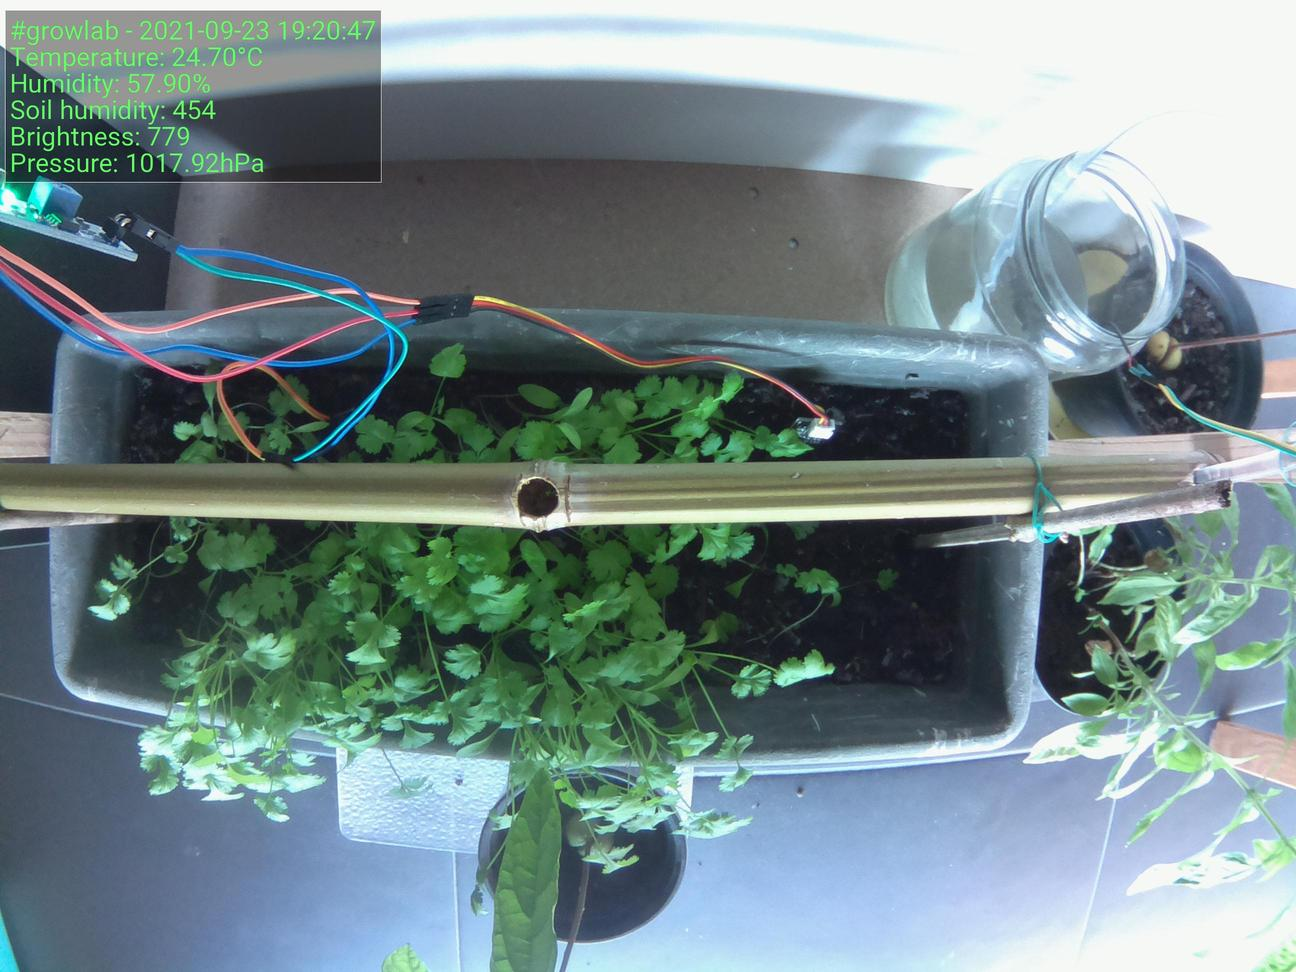
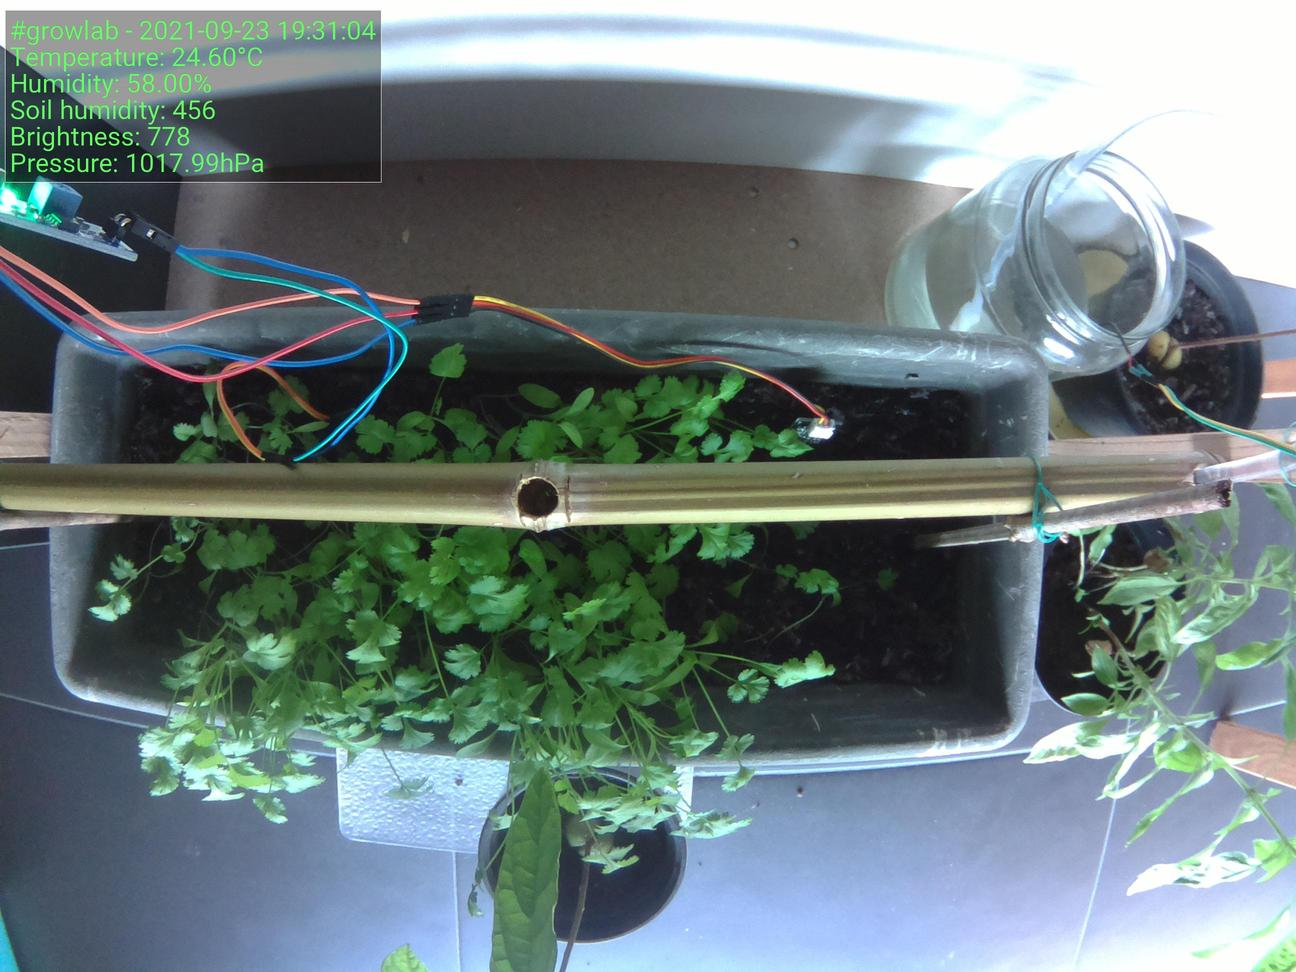
:bento: Update preview

diff --git a/index.html b/index.html
@@ -39,15 +39,15 @@
                     <tbody>
                         <tr>
                             <td>Time</td>
-                            <td>2021-09-23 19:20:47</td>
+                            <td>2021-09-23 19:31:04</td>
                         </tr>
                         <tr>
                             <td>Temperature</td>
-                            <td>24.70°C</td>
+                            <td>24.60°C</td>
                         </tr>
                         <tr>
                             <td>Humidity</td>
-                            <td>57.90%</td>
+                            <td>58.00%</td>
                         </tr>
                     </tbody>
                 </table>
@@ -55,7 +55,7 @@
 
                 <h5>Latest image</h5>
 		<div style="width: 85%;">
-	                <img class="figure-img img-fluid rounded" src="./preview.jpg?uid=1632417655.0599976">
+	                <img class="figure-img img-fluid rounded" src="./preview.jpg?uid=1632418271.9296274">
 		</div>
             </div>
         </div>
